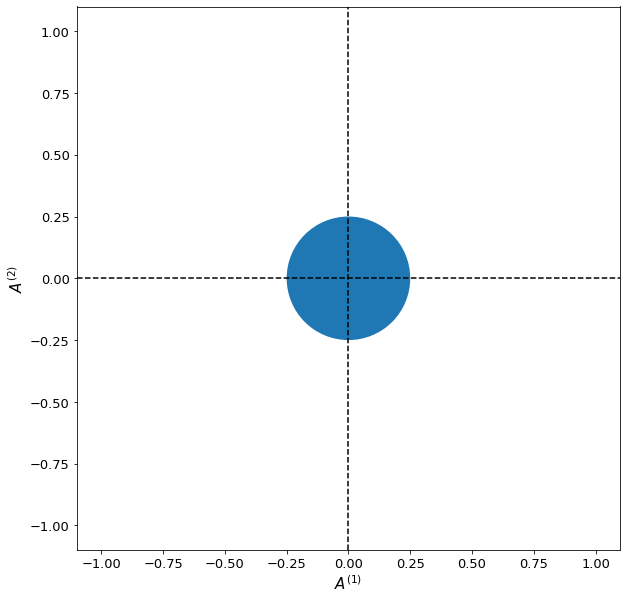
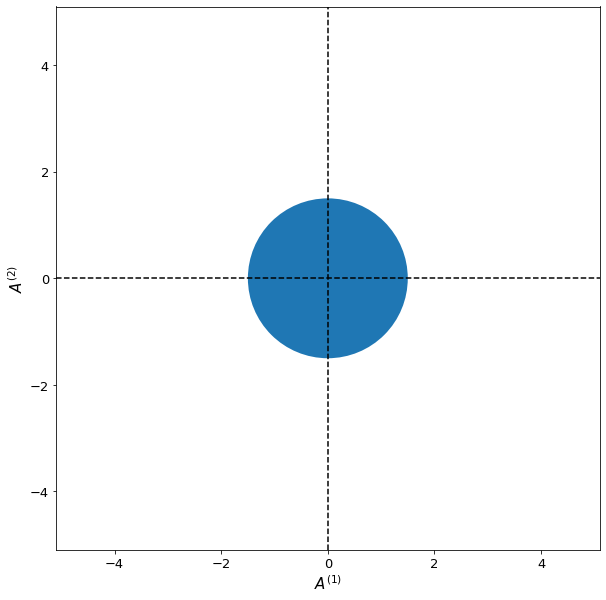
Update documentation

diff --git a/searchindex.js b/searchindex.js
@@ -1,1 +1,1 @@
-Search.setIndex({docnames:["chapter-XX-quantum-information","chapter-XX-quantum-optics-basics","intro"],envversion:{"sphinx.domains.c":2,"sphinx.domains.changeset":1,"sphinx.domains.citation":1,"sphinx.domains.cpp":4,"sphinx.domains.index":1,"sphinx.domains.javascript":2,"sphinx.domains.math":2,"sphinx.domains.python":3,"sphinx.domains.rst":2,"sphinx.domains.std":2,"sphinx.ext.intersphinx":1,"sphinxcontrib.bibtex":9,sphinx:56},filenames:["chapter-XX-quantum-information.ipynb","chapter-XX-quantum-optics-basics.md","intro.md"],objects:{},objnames:{},objtypes:{},terms:{"0":0,"00":0,"000":0,"0001":[],"001":0,"002":[],"005":[],"00_a":0,"01":0,"010":0,"011":0,"01_a":0,"05":[],"054e":0,"08":[],"0_a":0,"0_b":0,"0e":[],"0j":[],"1":1,"10":[0,1],"100":0,"1000":0,"101":0,"1068636":[],"10938188e":0,"10_a":0,"11":0,"110":0,"1109":[],"111":0,"119":0,"11_a":0,"12":[],"13":1,"14":0,"1440x252":[],"15":1,"159":[],"168":[],"18":[],"180":[],"19":0,"1975":[],"1998":[],"1_a":0,"1_b":0,"1e":[],"1j":[],"2":1,"20":0,"200":[],"2000":[0,1],"21":[],"22":0,"25":1,"2944":[],"2i":1,"2n":1,"30":[],"31":0,"32":0,"323":[],"330":[],"34":0,"360":[],"4":1,"40000":[],"45":0,"4500":0,"5":[],"50":0,"500":0,"6":[],"602e":0,"686719":[],"7":0,"891389":1,"9":0,"91699832":0,"99":[],"99792458e8":0,"byte":0,"case":[0,1],"class":0,"default":0,"do":0,"export":0,"final":0,"import":[0,1],"int":[],"long":0,"new":0,"public":0,"return":[],"short":[],"static":[],"true":[],"try":0,"while":1,A:[0,1],As:1,At:1,For:[0,1],IS:0,If:0,In:[0,1],It:[0,1],NOT:0,No:0,On:[],One:0,Such:1,THE:0,THERE:0,TO:0,That:1,The:[0,2],Then:[0,1],These:[0,1],To:0,_a:1,_b:1,_l:1,_m:1,_n:1,a0:[],a0_f:[],a1:1,a2:1,a_curr:[],a_f:[],a_m1:[],a_m1_pp:[],a_out:[],ab:0,about:[0,1],abov:[0,1],absorpt:[],access:0,account:1,achiev:0,acousto:[],act:1,activ:[],active_ml:[],ad:0,adagg:[],adagger_m:1,add:1,add_patch:1,add_subplot:1,add_trac:[],adjust:[],after:0,again:0,against:0,agre:0,ahat:[],ahat_m:1,alic:0,all:0,allow:[0,1],along:0,alreadi:0,also:[0,1],alwai:1,among:1,amound:[],amount:1,amplif:[],amplifi:[],amplitud:[],an:[0,1],analog:0,angel:0,angl:1,angular:1,ani:[0,1],anim:0,annihil:[],anoth:0,anyth:0,append:[],appli:0,applic:[0,1],approach:1,approx:0,approxim:[],ar:[0,1],arb:[],arctan2:[],aris:1,arrai:0,artifici:[],asid:[],aspect:[],assign:[],assum:0,assumpt:[],atemp_f:[],atom:0,attent:1,au:[],auto:[],avail:[],averag:1,awai:[],ax1:[],ax2:[],ax3:[],ax:1,ax_amp:[],ax_gain:[],ax_phas:[],ax_tim:[],axhlin:1,axi:1,axvlin:[0,1],b:[0,1],back:0,balanc:[],band:[],bandpass:[],bandwdith:[],bandwidth:[],base:[],baselin:[],baseline_phas:[],basi:0,basic:2,beamsplitt:0,becaus:0,becom:[],been:0,befor:[],begin:0,being:[],bell:0,below:0,beta2:[],beta3:[],beta_:0,better:0,between:0,big:0,bigg:0,bigotim:0,binomi:0,bit:[],black:1,blit:[],block:0,blue:1,bob:0,book:[1,2],both:[0,1],bottom:[],bra:[0,1],braket:[],brief:[],broad:[],build:[],button:[],c:[0,1],c_0:0,c_1:0,c_:0,c_i:0,ca:1,calcul:1,call:0,cambridg:0,can:[0,1],care:[],carri:1,carrier:[],categori:[],caus:0,caviti:[],cell:[],center:1,central:[],certain:0,certainli:[0,1],challeng:0,chanc:0,chang:0,channel:0,chapter:[1,2],charg:0,check:0,chemic:[],choic:0,chose:0,chosen:[],chuang:0,circ:0,circl:[0,1],circuit:0,circular:[0,1],citi:0,cla:[],classic:0,clearli:0,clearr:[],clockwis:1,close:[],cn:0,co:[0,1],code:0,coeff:[],coeffici:0,colab:0,collect:[],color:[0,1],colorbar:[],column:[],comb:[],come:0,commun:0,compar:0,complet:0,complex:0,complimentari:0,compon:1,comput:[0,1],concept:[0,1],concern:1,condit:[0,1],configur:1,consequ:0,consid:[0,1],consist:0,constant:0,construct:0,contain:[0,1],continu:0,contribut:[],control:0,conveni:[0,1],converg:[],convers:0,convert:[],copi:0,core:0,correct:[],correl:0,correspond:0,cost:[],could:0,counter:1,cours:[0,1,2],cover:[0,2],creat:0,creation:[],critic:1,crucial:0,cryptographi:0,cs:0,current:1,cursor:[],d:0,dagger:[],deal:[0,1],decreas:1,deeper:1,def:[],defin:1,definit:1,degre:0,dela:1,delta:1,demosntr:[],denot:[],depend:[],der:[],deriv:[],describ:[],descript:[],design:[],desir:[],despit:1,destroi:0,detail:0,detect:0,detector:0,determin:1,develop:1,devic:[],dictat:[],did:0,didn:0,diff:[],differ:0,difficulti:0,dimension:1,directli:1,discret:0,discuss:[0,1],dispers:[],displai:0,distinguish:1,distribut:0,doe:0,doesn:0,doi:[],domain:0,don:[],done:0,doubl:0,down:[],drawn:1,drive:0,driven:[],dt:[],due:[],durat:0,dure:0,dz:[],e:[0,1],e_envelop:[],each:[0,1],earli:0,easili:1,eavesdrop:0,ec:1,edit:1,eec:2,effect:[],effici:0,eighti:0,either:[0,1],electr:1,electro:[],electromagnet:1,electron:0,element:[],elmeent:[],els:[],emploi:0,en:[],enabl:0,encod:0,encourag:0,end:0,energi:1,engin:1,enough:0,ensur:0,entangl:[],entropi:0,envelop:[],environ:0,eqnarrai:0,equal:[0,1],equat:0,error:[],essenti:0,eta:0,etc:[0,1],ev:0,evcon:0,even:0,everi:[],evolut:[],evolv:[],examin:[],exampl:[0,1],exce:[],except:0,execut:[],exercis:[],exhibit:[],exist:[],exp:[],expand:[0,1],expect:1,experiment:0,explain:0,exploit:[],explor:0,exponenti:0,express:1,extend:0,extent:[],extern:[],extra:[],f:[],fabri:[],fact:1,factor:0,fail:0,fals:0,fast_sa_ml:[],faster:0,favor:[],feedback:[],femtosecond:[],few:0,feynman:0,fft:[],fftfreq:[],fftshift:[],fiber:0,field:[],fig:[0,1],figur:[0,1],fill:[],filter:[],find:0,fine:[],first:[0,1],fix:[],fixm:0,flip:0,floattext:[],floor:[],fluctiat:[],fluctuat:1,fly:0,focu:1,focus:1,follow:[0,1],fontsiz:[0,1],forc:[],form:[0,1],foruml:[],forward:[],found:[0,1],four:0,fourier:[],frac:[0,1],frang:[],free:0,freespac:0,frequenc:1,from:[0,1],fs:[],full:0,funcanim:[],fundament:0,further:[],furthermor:0,fwhm:[],g0:[],g:[0,1],g_0:[],gamma:[],gate:[],gaussian:[],gaussian_puls:[],gca:1,gener:1,get:[],get_ax:[],give:0,given:[0,1],go:[0,1],goal:[],goe:0,good:0,googl:0,graph_object:[],grid:[],gvd:[],h5py:0,h:0,ha:0,hadamard:0,half:0,hand:1,happen:0,hard:0,harmon:[],hat:[],hau:[],have:[0,1],hbar:[0,1],header:[],help:[],her:0,here:[0,1,2],hidden:0,high:[],higher:[],horizont:1,how:[0,1],howev:[0,1],html:0,http:[],hundr:[],hwp:0,i:[0,1],i_:[],i_sat:[],idea:0,ieee:[],ifft:[],ignor:[],illustr:0,impact:[],imped:0,imperfect:0,implement:0,impli:1,importantli:0,impract:0,improv:0,imshow:[],incid:[],includ:[0,2],inclus:[],incorpor:[],increas:1,index:[],ineffici:[],infin:[],infinit:[0,1],inform:1,infrom:0,initi:[],input:[0,1],insid:[],instal:0,instanc:[0,1],instantan:[],instead:[],int_:[],integr:[],intend:1,interact:0,interest:1,interpol:0,interv:0,intiial:[],intrins:1,introduc:1,introduct:[],inttext:[],intuit:[],involv:0,ipython:0,ipywidget:0,isbn:1,issu:[],iter:[],its:1,itself:1,j:0,javascript:0,john:1,joint:0,jone:0,journal:[],jqe:[],jul:[],just:[0,1],k:[0,1],kartner:[],keep:0,kei:0,keller:[],ket:0,kg:0,know:0,knowledg:0,known:[],l:0,label:[0,1],labels:[0,1],laboratori:0,langl:1,larg:1,laser:[],later:0,latex:[],launcher:0,lbrace:0,ldot:1,lead:[],learn:0,leav:0,left:[],legend:0,len:[0,1],length:[],leq:[],let:0,level:[0,1],leverag:1,life:[],light:0,like:0,likewis:1,limit:1,line:[],line_gain:[],linear:[0,1],linestyl:[0,1],linewidth:0,link:0,linspac:0,list:2,littl:0,ll:0,lo:0,locat:0,lock:[],log:[],log_2:0,look:0,loop:[],loss:[],lossi:0,low:[],m:[0,1],m_:0,magnet:0,major:0,make:[0,1],mani:[0,1],manual:[],mar:[],mark:1,markerlin:[],markerline_phas:[],mass:0,master:[],materi:[0,1],mathbf:1,mathematica:0,mathrm:0,matplotlib:[0,1],matrix:0,max:[],maxim:0,me:0,measur:[0,1],mechan:1,medium:[],memori:0,mental:[],messag:0,micron:[],middl:[],might:[],minimum:[],mirror:[],miss:0,mm:[],mod:[],mode:0,model:[],modern:1,modif:[],modul:[],more:[0,1],most:1,mostli:0,move:0,movi:[],mpatch:1,must:0,n2:[],n:0,n_out:[],n_plot:[],n_save:[],n_sell:[],name:1,nanosecond:[],natur:[],nearli:[],need:0,neighbor:[],net:1,nevertheless:0,newcommand:[],nielsen:0,nlse:[],nois:[0,1],noisi:0,none:1,nonlinear:[],normal:0,notat:0,note:[0,1],notebook:0,now:0,np:[0,1],nt:[],nt_r:[],nucleu:0,number:0,numer:[],numpi:[0,1],nz:[],o:[],obtain:[0,1],occur:0,odd:1,offset:[],often:1,ohm:0,omega:1,omega_g:[],omega_m:[],on_click:[],onc:0,one:0,ones:[],onli:0,open:0,oper:0,optic:[0,2],optim:[],order:[],org:[],orient:0,origin:0,orthogon:0,oscil:1,other:[0,1],our:[0,1],out:[],outcom:0,output:1,over:0,overcom:0,overview:1,own:[],p:0,p_0:0,p_1:0,p_2:0,p_3:0,p_:0,p_fail_1:0,p_fail_3:0,p_i:0,pair:0,parabol:[],parabola:[],paramet:[],part:[],partial:[],particl:0,particular:[0,1],pasadena:0,pass:[],patch:1,path:0,peak:[],per:1,perfectli:0,perform:1,period:[],perot:[],person:0,perturb:0,phase:[0,1],phi:[0,1],phi_c:[],photon:0,physic:[0,1],phz:[],pi:[0,1],pictur:[],place:[],plai:[],planck:0,plate:0,platform:1,plot:[0,1],plotli:[],plt:[0,1],pm:0,pmatrix:0,point:[0,1],polar:[0,1],popul:[0,1],possess:0,possibl:[0,1],possit:0,potenti:0,power:0,pp:[],precis:1,preferenti:[],presenc:0,present:1,press:0,prevent:[],previou:[],primari:0,principl:0,prior:[],probabilti:0,probabl:0,proce:[],procedur:0,process:0,produc:0,product:0,profici:1,profil:[],progress:0,project:0,projector:0,propag:[],properti:0,propos:0,propto:[],protect:0,protocol:0,provid:1,psi:[0,1],psi_1:0,psi_2:0,psi_3:0,psi_4:0,psi_:0,psi_i:0,psi_m:1,publish:[],pure:1,purpos:0,push:[],pyplot:[0,1],quadratur:1,quantiti:1,quantiz:1,quantum:[],quick:1,quit:1,r:[],rad:[],radialaxis_rang:[],radiat:[],radiu:1,rand:[],random:1,rang:0,rangl:1,rate:[],rather:[],ratio:1,rbrace:0,rc:0,re:0,real:[0,1],realist:[],reason:[],recal:0,receiv:1,recit:0,recommend:[],record:[],recov:0,red:[],reduc:[],reduct:1,redund:0,ref:1,refer:0,reflect:[],regener:[],region:1,regist:0,rel:0,relat:[0,1],reliabl:0,remark:[],repeat:[],repetit:[],repres:[0,1],represent:1,requir:[0,1],reson:[],respect:1,respons:[],restor:0,result:[0,1],review:1,richard:0,right:1,rightarrow:0,rotat:0,round:[],row:[],run:0,s0:[],s:[0,1],s_0:[],sai:0,said:[],same:0,sampl:[],sat:[],satyur:[],sausalito:1,scale:[],scatterpolar:[],scheme:0,scienc:1,scipi:0,script:[],second:[],section:0,secur:1,see:[0,1],seed:[],seem:0,self:[],sellmeier:[],sellmeier_equ:[],send:0,sensit:1,seriou:0,set:0,set_aspect:1,set_size_inch:[0,1],set_titl:[],set_xlabel:1,set_xlim:1,set_ylabel:1,set_ylim:1,settl:[],setup:0,sever:1,shannon:0,shape:[],share:0,she:0,shoot:[],shorter:[],should:[0,1],show:[0,1],side:[],sift:0,signal:[0,1],similar:[],simpl:0,simplest:[],simpli:[],simplifi:[],simul:0,sin:[0,1],sinc:0,singl:1,sinusoid:[],sit:0,size:[],slightli:0,slow:[],slowli:[],small:[],so:[0,1],solid:0,solut:[],solv:[],some:0,sourc:0,space:0,span:[],spatial:[],specif:0,spectra:[],speed:0,spin:0,split:[],split_step:[],spuriou:[],sqrt:[0,1],stabil:[],stabilti:0,start:[],state:0,statist:[0,1],steadi:[],stem:[],stemlin:[],stemline_phas:[],step:[],still:0,store:0,str:[],strenght:[],strength:0,string:0,studi:0,subject:[0,2],suffic:0,sum_:0,sum_i:0,sum_x:0,sumat:[],summat:1,support:[],suppos:0,sure:0,surfac:1,synchron:[],system:[0,1],system_set:[],system_set_fast_sa:[],t:0,t_r:[],tab:1,take:[0,1],tau:[],taught:1,techniqu:0,teleport:[],tell:0,tempor:[],temporarili:[],ten:[],tera:0,term:0,tese:[],text:[0,2],textbook:1,th:0,than:[0,1],thei:[0,1],theori:0,therefor:0,thermal:[],theta:[0,1],thi:[0,1,2],thing:1,think:[],those:[0,1],though:0,thousand:[],three:0,through:[0,1],throughout:1,thu:0,tick_param:[0,1],time:[0,1],times2:0,timescal:[],to_jshtml:[],tod:[],togeth:[],tool:0,top:0,topic:[0,2],toself:[],townsend:1,trace:[],track:[],tracker:[],train:[],transfer:0,transform:0,transmit:1,trapz:[],treatment:1,trip:[],tukei:[],turn:[],tweak:0,two:1,tyical:[],typic:[],u:0,ubiquit:1,ultim:[],ultrafast:[],uncertainti:[0,1],uncorrel:0,under:[],underli:[],understand:1,uniformli:[],uniqu:0,unit:0,univ:0,univariatesplin:0,univers:[0,1],unknown:0,unlock:[],unphys:[],unrestrict:1,unsatur:[],unstabl:[],until:[],up:[],updat:0,update_polar:[],updatefig:[],us:[0,1],use_line_collect:[],uu:0,v:0,vacuum:[],valu:[0,1],variabl:1,varianc:1,varieti:1,variou:1,variousu:[],vector:1,veri:1,vertic:1,violat:0,visibl:0,visual:1,vol:[],vote:0,vs:[],vv:0,w:[],w_:[],w_puls:[],w_sat:[],wa:0,wai:[0,1],want:0,want_export:0,watch:[],wave:[0,1],wavelength:[],wc:[],we:[0,1],well:[0,1],were:0,what:[0,1],when:0,where:[0,1],whether:0,which:0,who:1,whose:1,why:[],width:1,wiki:[],wikipedia:[],wildli:1,window:[],within:1,without:[],work:0,world:1,would:[0,1],wouldn:[],wrap:[],written:[0,1],x:[0,1],x_i:0,xlabel:0,xlim:[],xx:2,y:[0,1],y_valid:[],ylabel:0,ylim:[],york:0,you:[0,1],your:0,yy:0,z:0,zero:1,zx:0},titles:["Chapter XX \u2013 Quantum Information","The Basics of Quantum Optics","6.157 \u2013 Laboratory for Quantum Information Science and Engineering"],titleterms:{"0":1,"1":0,"157":2,"2":0,"3":0,"4":0,"5":0,"6":2,"final":[],"function":0,The:1,Their:1,With:0,absorb:[],activ:[],adagg:1,adjust:[],ahat:1,alpha:1,an:[],anim:[],annihil:1,base:0,basic:1,bit:0,cell:[],chapter:0,cnot:0,coher:1,common:1,content:2,correct:0,creation:1,deviat:1,domain:[],dynam:[],engin:2,entangl:0,error:0,exampl:[],fast:[],field:1,format:[],gain:[],gate:0,hat:1,header:[],inform:[0,2],intens:[],introduct:[],ket:1,lab:[],laboratori:2,latex:[],lock:[],look:[],mean:1,mode:1,n:1,number:1,observ:1,oper:1,optic:1,output:[],packag:0,passiv:[],phase:[],photon:1,point:[],properti:1,puls:[],qkd:0,quantum:[0,1,2],qubit:0,refer:1,run:[],satur:[],scienc:2,select:[],set:[],singl:0,spectral:[],spectrum:[],stabl:[],standard:1,state:1,system:[],tabl:2,teleport:0,time:[],two:0,type:1,vacuum:1,variabl:0,width:[],without:0,xx:0}})
+Search.setIndex({docnames:["chapter-XX-quantum-information","chapter-XX-quantum-optics-basics","intro"],envversion:{"sphinx.domains.c":2,"sphinx.domains.changeset":1,"sphinx.domains.citation":1,"sphinx.domains.cpp":4,"sphinx.domains.index":1,"sphinx.domains.javascript":2,"sphinx.domains.math":2,"sphinx.domains.python":3,"sphinx.domains.rst":2,"sphinx.domains.std":2,"sphinx.ext.intersphinx":1,"sphinxcontrib.bibtex":9,sphinx:56},filenames:["chapter-XX-quantum-information.ipynb","chapter-XX-quantum-optics-basics.md","intro.md"],objects:{},objnames:{},objtypes:{},terms:{"0":0,"00":0,"000":0,"0001":[],"001":0,"002":[],"005":[],"00_a":0,"01":0,"010":0,"011":0,"01_a":0,"05":[],"054e":0,"08":[],"0_a":0,"0_b":0,"0e":[],"0j":[],"1":1,"10":[0,1],"100":0,"1000":0,"101":0,"1068636":[],"10938188e":0,"10_a":0,"11":0,"110":0,"1109":[],"111":0,"119":0,"11_a":0,"12":[],"13":1,"14":0,"1440x252":[],"15":1,"159":[],"168":[],"18":[],"180":[],"19":0,"1975":[],"1998":[],"1_a":0,"1_b":0,"1e":[],"1j":[],"2":1,"20":0,"200":[],"2000":[0,1],"21":[],"22":0,"25":[],"2944":[],"2i":1,"2n":1,"30":[],"31":0,"32":0,"323":[],"330":[],"34":0,"360":[],"4":1,"40000":[],"45":0,"4500":0,"5":1,"50":0,"500":0,"6":[],"602e":0,"686719":[],"7":0,"891389":1,"9":0,"91699832":0,"99":[],"99792458e8":0,"byte":0,"case":[0,1],"class":0,"default":0,"do":0,"export":0,"final":0,"import":[0,1],"int":[],"long":0,"new":0,"public":0,"return":[],"short":[],"static":[],"true":[],"try":0,"while":1,A:[0,1],As:1,At:1,For:[0,1],IS:0,If:0,In:[0,1],It:[0,1],NOT:0,No:0,On:[],One:0,Such:1,THE:0,THERE:0,TO:0,That:1,The:[0,2],Then:[0,1],These:[0,1],To:0,_a:1,_b:1,_l:1,_m:1,_n:1,a0:[],a0_f:[],a1:1,a2:1,a_curr:[],a_f:[],a_m1:[],a_m1_pp:[],a_out:[],ab:0,about:[0,1],abov:[0,1],absorpt:[],access:0,account:1,achiev:0,acousto:[],act:1,activ:[],active_ml:[],ad:0,adagg:[],adagger_m:1,add:1,add_patch:1,add_subplot:1,add_trac:[],adjust:[],after:0,again:0,against:0,agre:0,ahat:[],ahat_m:1,alic:0,all:0,allow:[0,1],along:0,alreadi:0,also:[0,1],alwai:1,among:1,amound:[],amount:1,amplif:[],amplifi:[],amplitud:[],an:[0,1],analog:0,angel:0,angl:1,angular:1,ani:[0,1],anim:0,annihil:[],anoth:0,anyth:0,append:[],appli:0,applic:[0,1],approach:1,approx:0,approxim:[],ar:[0,1],arb:[],arctan2:[],aris:1,arrai:0,artifici:[],asid:[],aspect:[],assign:[],assum:0,assumpt:[],atemp_f:[],atom:0,attent:1,au:[],auto:[],avail:[],averag:1,awai:[],ax1:[],ax2:[],ax3:[],ax:1,ax_amp:[],ax_gain:[],ax_phas:[],ax_tim:[],axhlin:1,axi:1,axvlin:[0,1],b:[0,1],back:0,balanc:[],band:[],bandpass:[],bandwdith:[],bandwidth:[],base:[],baselin:[],baseline_phas:[],basi:0,basic:2,beamsplitt:0,becaus:0,becom:[],been:0,befor:[],begin:0,being:[],bell:0,below:0,beta2:[],beta3:[],beta_:0,better:0,between:0,big:0,bigg:0,bigotim:0,binomi:0,bit:[],black:1,blit:[],block:0,blue:1,bob:0,book:[1,2],both:[0,1],bottom:[],bra:[0,1],braket:[],brief:[],broad:[],build:[],button:[],c:[0,1],c_0:0,c_1:0,c_:0,c_i:0,ca:1,calcul:1,call:0,cambridg:0,can:[0,1],care:[],carri:1,carrier:[],categori:[],caus:0,caviti:[],cell:[],center:1,central:[],certain:0,certainli:[0,1],challeng:0,chanc:0,chang:0,channel:0,chapter:[1,2],charg:0,check:0,chemic:[],choic:0,chose:0,chosen:[],chuang:0,circ:0,circl:[0,1],circuit:0,circular:[0,1],citi:0,cla:[],classic:0,clearli:0,clearr:[],clockwis:1,close:[],cn:0,co:[0,1],code:0,coeff:[],coeffici:0,colab:0,collect:[],color:[0,1],colorbar:[],column:[],comb:[],come:0,commun:0,compar:0,complet:0,complex:0,complimentari:0,compon:1,comput:[0,1],concept:[0,1],concern:1,condit:[0,1],configur:1,consequ:0,consid:[0,1],consist:0,constant:0,construct:0,contain:[0,1],continu:0,contribut:[],control:0,conveni:[0,1],converg:[],convers:0,convert:[],copi:0,core:0,correct:[],correl:0,correspond:0,cost:[],could:0,counter:1,cours:[0,1,2],cover:[0,2],creat:0,creation:[],critic:1,crucial:0,cryptographi:0,cs:0,current:1,cursor:[],d:0,dagger:[],deal:[0,1],decreas:1,deeper:1,def:[],defin:1,definit:1,degre:0,dela:1,delta:1,demosntr:[],denot:[],depend:[],der:[],deriv:[],describ:[],descript:[],design:[],desir:[],despit:1,destroi:0,detail:0,detect:0,detector:0,determin:1,develop:1,devic:[],dictat:[],did:0,didn:0,diff:[],differ:0,difficulti:0,dimension:1,directli:1,discret:0,discuss:[0,1],dispers:[],displai:0,distinguish:1,distribut:0,doe:0,doesn:0,doi:[],domain:0,don:[],done:0,doubl:0,down:[],drawn:1,drive:0,driven:[],dt:[],due:[],durat:0,dure:0,dz:[],e:[0,1],e_envelop:[],each:[0,1],earli:0,easili:1,eavesdrop:0,ec:1,edit:1,eec:2,effect:[],effici:0,eighti:0,either:[0,1],electr:1,electro:[],electromagnet:1,electron:0,element:[],ellips:1,elmeent:[],els:[],emploi:0,en:[],enabl:0,encod:0,encourag:0,end:0,energi:1,engin:1,enough:0,ensur:0,entangl:[],entropi:0,envelop:[],environ:0,eqnarrai:0,equal:[0,1],equat:0,error:[],essenti:0,eta:0,etc:[0,1],ev:0,evcon:0,even:0,everi:[],evolut:[],evolv:[],examin:[],exampl:[0,1],exce:[],except:0,execut:[],exercis:[],exhibit:[],exist:[],exp:[],expand:[0,1],expect:1,experiment:0,explain:0,exploit:[],explor:0,exponenti:0,express:1,extend:0,extent:[],extern:[],extra:[],f:[],fabri:[],fact:1,factor:0,fail:0,fals:0,fast_sa_ml:[],faster:0,favor:[],feedback:[],femtosecond:[],few:0,feynman:0,fft:[],fftfreq:[],fftshift:[],fiber:0,field:[],fig:[0,1],figur:[0,1],fill:[],filter:[],find:0,fine:[],first:[0,1],fix:[],fixm:0,flip:0,floattext:[],floor:[],fluctiat:[],fluctuat:1,fly:0,focu:1,focus:1,follow:[0,1],fontsiz:[0,1],forc:[],form:[0,1],foruml:[],forward:[],found:[0,1],four:0,fourier:[],frac:[0,1],frang:[],free:0,freespac:0,frequenc:1,from:[0,1],fs:[],full:0,funcanim:[],fundament:0,further:[],furthermor:0,fwhm:[],g0:[],g:[0,1],g_0:[],gamma:[],gate:[],gaussian:[],gaussian_puls:[],gca:1,gener:1,get:[],get_ax:[],give:0,given:[0,1],go:[0,1],goal:[],goe:0,good:0,googl:0,graph_object:[],grid:[],gvd:[],h5py:0,h:0,ha:0,hadamard:0,half:0,hand:1,happen:0,hard:0,harmon:[],hat:[],hau:[],have:[0,1],hbar:[0,1],header:[],height:1,help:[],her:0,here:[0,1,2],hidden:0,high:[],higher:[],horizont:1,how:[0,1],howev:[0,1],html:0,http:[],hundr:[],hwp:0,i:[0,1],i_:[],i_sat:[],idea:0,ieee:[],ifft:[],ignor:[],illustr:0,impact:[],imped:0,imperfect:0,implement:0,impli:1,importantli:0,impract:0,improv:0,imshow:[],incid:[],includ:[0,2],inclus:[],incorpor:[],increas:1,index:[],ineffici:[],infin:[],infinit:[0,1],inform:1,infrom:0,initi:[],input:[0,1],insid:[],instal:0,instanc:[0,1],instantan:[],instead:[],int_:[],integr:[],intend:1,interact:0,interest:1,interpol:0,interv:0,intiial:[],intrins:1,introduc:1,introduct:[],inttext:[],intuit:[],involv:0,ipython:0,ipywidget:0,isbn:1,issu:[],iter:[],its:1,itself:1,j:0,javascript:0,john:1,joint:0,jone:0,journal:[],jqe:[],jul:[],just:[0,1],k:[0,1],kartner:[],keep:0,kei:0,keller:[],ket:0,kg:0,know:0,knowledg:0,known:[],l:0,label:[0,1],labels:[0,1],laboratori:0,langl:1,larg:1,laser:[],later:0,latex:[],launcher:0,lbrace:0,ldot:1,lead:[],learn:0,leav:0,left:[],legend:0,len:[0,1],length:[],leq:[],let:0,level:[0,1],leverag:1,life:[],light:0,like:0,likewis:1,limit:1,line:[],line_gain:[],linear:[0,1],linestyl:[0,1],linewidth:0,link:0,linspac:0,list:2,littl:0,ll:0,lo:0,locat:0,lock:[],log:[],log_2:0,look:0,loop:[],loss:[],lossi:0,low:[],m:[0,1],m_:0,magnet:0,major:0,make:[0,1],mani:[0,1],manual:[],mar:[],mark:1,markerlin:[],markerline_phas:[],mass:0,master:[],materi:[0,1],mathbf:1,mathematica:0,mathrm:0,matplotlib:[0,1],matrix:0,max:[],maxim:0,me:0,measur:[0,1],mechan:1,medium:[],memori:0,mental:[],messag:0,micron:[],middl:[],might:[],minimum:[],mirror:[],miss:0,mm:[],mod:[],mode:0,model:[],modern:1,modif:[],modul:[],more:[0,1],most:1,mostli:0,move:0,movi:[],mpatch:1,must:0,n2:[],n:0,n_out:[],n_plot:[],n_save:[],n_sell:[],name:1,nanosecond:[],natur:[],nearli:[],need:0,neighbor:[],net:1,nevertheless:0,newcommand:[],nielsen:0,nlse:[],nois:[0,1],noisi:0,none:1,nonlinear:[],normal:0,notat:0,note:[0,1],notebook:0,now:0,np:[0,1],nt:[],nt_r:[],nucleu:0,number:0,numer:[],numpi:[0,1],nz:[],o:[],obtain:[0,1],occur:0,odd:1,offset:[],often:1,ohm:0,omega:1,omega_g:[],omega_m:[],on_click:[],onc:0,one:0,ones:[],onli:0,onto:1,open:0,oper:0,optic:[0,2],optim:[],order:[],org:[],orient:0,origin:0,orthogon:0,oscil:1,other:[0,1],our:[0,1],out:[],outcom:0,output:1,over:0,overcom:0,overview:1,own:[],p:0,p_0:0,p_1:0,p_2:0,p_3:0,p_:0,p_fail_1:0,p_fail_3:0,p_i:0,pair:0,parabol:[],parabola:[],paramet:[],part:[],partial:[],particl:0,particular:[0,1],pasadena:0,pass:[],patch:1,path:0,peak:[],per:1,perfectli:0,perform:1,period:[],perot:[],person:0,perturb:0,phase:[0,1],phi:[0,1],phi_c:[],photon:0,physic:[0,1],phz:[],pi:[0,1],pictur:[],place:[],plai:[],planck:0,plate:0,platform:1,plot:[0,1],plotli:[],plt:[0,1],pm:0,pmatrix:0,point:[0,1],polar:[0,1],popul:[0,1],possess:0,possibl:[0,1],possit:0,potenti:0,power:0,pp:[],precis:1,preferenti:[],presenc:0,present:1,press:0,prevent:[],previou:[],primari:0,principl:0,prior:[],probabilti:0,probabl:0,proce:[],procedur:0,process:0,produc:0,product:0,profici:1,profil:[],progress:0,project:[0,1],projector:0,propag:[],properti:0,propos:0,propto:[],protect:0,protocol:0,provid:1,psi:[0,1],psi_1:0,psi_2:0,psi_3:0,psi_4:0,psi_:0,psi_i:0,psi_m:1,publish:[],pure:1,purpos:0,push:[],pyplot:[0,1],quadratur:1,quantiti:1,quantiz:1,quantum:[],quick:1,quit:1,r:[],rad:[],radialaxis_rang:[],radiat:[],radiu:[],rand:[],random:1,rang:0,rangl:1,rate:[],rather:[],ratio:1,rbrace:0,rc:0,re:0,real:[0,1],realist:[],reason:[],recal:0,receiv:1,recit:0,recommend:[],record:[],recov:0,red:[],reduc:[],reduct:1,redund:0,ref:1,refer:0,reflect:[],regener:[],region:1,regist:0,rel:0,relat:[0,1],reliabl:0,remark:[],repeat:[],repetit:[],repres:[0,1],represent:1,requir:[0,1],reson:[],respect:1,respons:[],restor:0,result:[0,1],review:1,richard:0,right:1,rightarrow:0,rotat:0,round:[],row:[],run:0,s0:[],s:[0,1],s_0:[],sai:0,said:[],same:0,sampl:[],sat:[],satyur:[],sausalito:1,scale:[],scatterpolar:[],scheme:0,scienc:1,scipi:0,script:[],second:[],section:0,secur:1,see:[0,1],seed:[],seem:0,self:[],sellmeier:[],sellmeier_equ:[],send:0,sensit:1,seriou:0,set:0,set_aspect:1,set_size_inch:[0,1],set_titl:[],set_xlabel:1,set_xlim:1,set_ylabel:1,set_ylim:1,settl:[],setup:0,sever:1,shannon:0,shape:[],share:0,she:0,shoot:[],shorter:[],should:[0,1],show:[0,1],side:[],sift:0,signal:[0,1],similar:[],simpl:0,simplest:[],simpli:[],simplifi:[],simul:0,sin:[0,1],sinc:0,singl:1,sinusoid:[],sit:0,size:[],slightli:0,slow:[],slowli:[],small:[],so:[0,1],solid:0,solut:[],solv:[],some:0,sourc:0,space:0,span:[],spatial:[],specif:0,spectra:[],speed:0,spin:0,split:[],split_step:[],spuriou:[],sqrt:[0,1],stabil:[],stabilti:0,start:[],state:0,statist:[0,1],steadi:[],stem:[],stemlin:[],stemline_phas:[],step:[],still:0,store:0,str:[],strenght:[],strength:0,string:0,studi:0,subject:[0,2],suffic:0,sum_:0,sum_i:0,sum_x:0,sumat:[],summat:1,support:[],suppos:0,sure:0,surfac:1,synchron:[],system:[0,1],system_set:[],system_set_fast_sa:[],t:0,t_r:[],tab:1,take:[0,1],tau:[],taught:1,techniqu:0,teleport:[],tell:0,tempor:[],temporarili:[],ten:[],tera:0,term:0,tese:[],text:[0,2],textbook:1,th:0,than:[0,1],thei:[0,1],theori:0,therefor:0,thermal:[],theta:[0,1],thi:[0,1,2],thing:1,think:[],those:[0,1],though:0,thousand:[],three:0,through:[0,1],throughout:1,thu:0,tick_param:[0,1],time:[0,1],times2:0,timescal:[],to_jshtml:[],tod:[],togeth:[],tool:0,top:0,topic:[0,2],toself:[],townsend:1,trace:[],track:[],tracker:[],train:[],transfer:0,transform:0,transmit:1,trapz:[],treatment:1,trip:[],tukei:[],turn:[],tweak:0,two:1,tyical:[],typic:[],u:0,ubiquit:1,ultim:[],ultrafast:[],uncertainti:[0,1],uncorrel:0,under:[],underli:[],understand:1,uniformli:[],uniqu:0,unit:0,univ:0,univariatesplin:0,univers:[0,1],unknown:0,unlock:[],unphys:[],unrestrict:1,unsatur:[],unstabl:[],until:[],up:[],updat:0,update_polar:[],updatefig:[],us:[0,1],use_line_collect:[],uu:0,v:0,vacuum:[],valu:[0,1],variabl:1,varianc:1,varieti:1,variou:1,variousu:[],vector:1,veri:1,vertic:1,violat:0,visibl:0,visual:1,vol:[],vote:0,vs:[],vv:0,w:[],w_:[],w_puls:[],w_sat:[],wa:0,wai:[0,1],want:0,want_export:0,watch:[],wave:[0,1],wavelength:[],wc:[],we:[0,1],well:[0,1],were:0,what:[0,1],when:0,where:[0,1],whether:0,which:0,who:1,whose:1,why:[],width:1,wiki:[],wikipedia:[],wildli:1,window:[],within:1,without:[],work:0,world:1,would:[0,1],wouldn:[],wrap:[],written:[0,1],x:[0,1],x_i:0,xlabel:0,xlim:[],xx:2,y:[0,1],y_valid:[],ylabel:0,ylim:[],york:0,you:[0,1],your:0,yy:0,z:0,zero:1,zx:0},titles:["Chapter XX \u2013 Quantum Information","The Basics of Quantum Optics","6.157 \u2013 Laboratory for Quantum Information Science and Engineering"],titleterms:{"0":1,"1":0,"157":2,"2":0,"3":0,"4":0,"5":0,"6":2,"final":[],"function":0,The:1,Their:1,With:0,absorb:[],activ:[],adagg:1,adjust:[],ahat:1,alpha:1,an:[],anim:[],annihil:1,base:0,basic:1,bit:0,cell:[],chapter:0,cnot:0,coher:1,common:1,content:2,correct:0,creation:1,deviat:1,domain:[],dynam:[],engin:2,entangl:0,error:0,exampl:[],fast:[],field:1,format:[],gain:[],gate:0,hat:1,header:[],inform:[0,2],intens:[],introduct:[],ket:1,lab:[],laboratori:2,latex:[],lock:[],look:[],mean:1,mode:1,n:1,number:1,observ:1,oper:1,optic:1,output:[],packag:0,passiv:[],phase:[],photon:1,point:[],properti:1,puls:[],qkd:0,quantum:[0,1,2],qubit:0,refer:1,run:[],satur:[],scienc:2,select:[],set:[],singl:0,spectral:[],spectrum:[],stabl:[],standard:1,state:1,system:[],tabl:2,teleport:0,time:[],two:0,type:1,vacuum:1,variabl:0,width:[],without:0,xx:0}})

diff --git a/chapter-XX-quantum-optics-basics.html b/chapter-XX-quantum-optics-basics.html
@@ -518,10 +518,10 @@ const thebe_selector_output = ".output, .cell_output"
 
 
 <span class="c1"># add a circle</span>
-<span class="n">circle</span> <span class="o">=</span> <span class="n">mpatches</span><span class="o">.</span><span class="n">Circle</span><span class="p">((</span><span class="n">A1</span><span class="p">,</span> <span class="n">A2</span><span class="p">),</span> <span class="n">radius</span><span class="o">=</span><span class="mf">0.25</span><span class="p">,</span> <span class="n">ec</span><span class="o">=</span><span class="s2">&quot;none&quot;</span><span class="p">,</span> <span class="n">color</span><span class="o">=</span><span class="s1">&#39;tab:blue&#39;</span><span class="p">)</span>
-<span class="n">ax</span><span class="o">.</span><span class="n">add_patch</span><span class="p">(</span><span class="n">circle</span><span class="p">)</span>
-<span class="n">ax</span><span class="o">.</span><span class="n">set_xlim</span><span class="p">(</span><span class="o">-</span><span class="mf">1.1</span><span class="p">,</span> <span class="mf">1.1</span><span class="p">)</span>
-<span class="n">ax</span><span class="o">.</span><span class="n">set_ylim</span><span class="p">(</span><span class="o">-</span><span class="mf">1.1</span><span class="p">,</span> <span class="mf">1.1</span><span class="p">)</span>
+<span class="n">patch</span> <span class="o">=</span> <span class="n">mpatches</span><span class="o">.</span><span class="n">Ellipse</span><span class="p">((</span><span class="n">A1</span><span class="p">,</span> <span class="n">A2</span><span class="p">),</span> <span class="n">width</span><span class="o">=</span><span class="n">delA</span><span class="o">*</span><span class="mi">2</span><span class="p">,</span> <span class="n">height</span><span class="o">=</span><span class="n">delA</span><span class="o">*</span><span class="mi">2</span><span class="p">,</span> <span class="n">ec</span><span class="o">=</span><span class="s2">&quot;none&quot;</span><span class="p">,</span> <span class="n">color</span><span class="o">=</span><span class="s1">&#39;tab:blue&#39;</span><span class="p">)</span>
+<span class="n">ax</span><span class="o">.</span><span class="n">add_patch</span><span class="p">(</span><span class="n">patch</span><span class="p">)</span>
+<span class="n">ax</span><span class="o">.</span><span class="n">set_xlim</span><span class="p">(</span><span class="o">-</span><span class="mf">5.1</span><span class="p">,</span> <span class="mf">5.1</span><span class="p">)</span>
+<span class="n">ax</span><span class="o">.</span><span class="n">set_ylim</span><span class="p">(</span><span class="o">-</span><span class="mf">5.1</span><span class="p">,</span> <span class="mf">5.1</span><span class="p">)</span>
 
 <span class="n">ax</span><span class="o">.</span><span class="n">set_xlabel</span><span class="p">(</span><span class="s1">&#39;$A^{(1)}$&#39;</span><span class="p">,</span> <span class="n">fontsize</span><span class="o">=</span><span class="mi">15</span><span class="p">)</span>
 <span class="n">ax</span><span class="o">.</span><span class="n">set_ylabel</span><span class="p">(</span><span class="s1">&#39;$A^{(2)}$&#39;</span><span class="p">,</span> <span class="n">fontsize</span><span class="o">=</span><span class="mi">15</span><span class="p">)</span>
@@ -555,15 +555,15 @@ const thebe_selector_output = ".output, .cell_output"
 
 <span class="n">A</span> <span class="o">=</span> <span class="mi">4</span>
 <span class="n">phi</span> <span class="o">=</span> <span class="n">np</span><span class="o">.</span><span class="n">pi</span><span class="o">/</span><span class="mi">4</span>
-
-<span class="n">A1</span> <span class="o">=</span> <span class="n">A</span><span class="o">*</span><span class="n">np</span><span class="o">.</span><span class="n">cos</span><span class="p">(</span><span class="n">phi</span><span class="p">)</span>
-<span class="n">A2</span> <span class="o">=</span> <span class="n">A</span><span class="o">*</span><span class="n">np</span><span class="o">.</span><span class="n">sin</span><span class="p">(</span><span class="n">phi</span><span class="p">)</span>
 <span class="n">delA</span> <span class="o">=</span> <span class="mi">1</span><span class="o">/</span><span class="mi">2</span>
 
+<span class="c1">#Determine projection onto A1 and A2 for center</span>
+<span class="n">A1</span> <span class="o">=</span> <span class="n">A</span><span class="o">*</span><span class="n">np</span><span class="o">.</span><span class="n">cos</span><span class="p">(</span><span class="n">phi</span><span class="p">)</span>
+<span class="n">A2</span> <span class="o">=</span> <span class="n">A</span><span class="o">*</span><span class="n">np</span><span class="o">.</span><span class="n">sin</span><span class="p">(</span><span class="n">phi</span><span class="p">)</span>
 
 <span class="c1"># add a circle</span>
-<span class="n">circle</span> <span class="o">=</span> <span class="n">mpatches</span><span class="o">.</span><span class="n">Circle</span><span class="p">((</span><span class="n">A1</span><span class="p">,</span> <span class="n">A2</span><span class="p">),</span> <span class="n">radius</span><span class="o">=</span><span class="mf">0.25</span><span class="p">,</span> <span class="n">ec</span><span class="o">=</span><span class="s2">&quot;none&quot;</span><span class="p">,</span> <span class="n">color</span><span class="o">=</span><span class="s1">&#39;tab:blue&#39;</span><span class="p">)</span>
-<span class="n">ax</span><span class="o">.</span><span class="n">add_patch</span><span class="p">(</span><span class="n">circle</span><span class="p">)</span>
+<span class="n">patch</span> <span class="o">=</span> <span class="n">mpatches</span><span class="o">.</span><span class="n">Ellipse</span><span class="p">((</span><span class="n">A1</span><span class="p">,</span> <span class="n">A2</span><span class="p">),</span> <span class="n">width</span><span class="o">=</span><span class="n">delA</span><span class="o">*</span><span class="mi">2</span><span class="p">,</span> <span class="n">height</span><span class="o">=</span><span class="n">delA</span><span class="o">*</span><span class="mi">2</span><span class="p">,</span> <span class="n">ec</span><span class="o">=</span><span class="s2">&quot;none&quot;</span><span class="p">,</span> <span class="n">color</span><span class="o">=</span><span class="s1">&#39;tab:blue&#39;</span><span class="p">)</span>
+<span class="n">ax</span><span class="o">.</span><span class="n">add_patch</span><span class="p">(</span><span class="n">patch</span><span class="p">)</span>
 <span class="n">ax</span><span class="o">.</span><span class="n">set_xlim</span><span class="p">(</span><span class="o">-</span><span class="mf">4.1</span><span class="p">,</span> <span class="mf">4.1</span><span class="p">)</span>
 <span class="n">ax</span><span class="o">.</span><span class="n">set_ylim</span><span class="p">(</span><span class="o">-</span><span class="mf">4.1</span><span class="p">,</span> <span class="mf">4.1</span><span class="p">)</span>
 

diff --git a/_sources/chapter-XX-quantum-optics-basics.md b/_sources/chapter-XX-quantum-optics-basics.md
@@ -216,10 +216,10 @@ A2 = A*np.sin(phi)
 
 
 # add a circle
-circle = mpatches.Circle((A1, A2), radius=0.25, ec="none", color='tab:blue')
-ax.add_patch(circle)
-ax.set_xlim(-1.1, 1.1)
-ax.set_ylim(-1.1, 1.1)
+patch = mpatches.Ellipse((A1, A2), width=delA*2, height=delA*2, ec="none", color='tab:blue')
+ax.add_patch(patch)
+ax.set_xlim(-5.1, 5.1)
+ax.set_ylim(-5.1, 5.1)
 
 ax.set_xlabel('$A^{(1)}$', fontsize=15)
 ax.set_ylabel('$A^{(2)}$', fontsize=15)
@@ -250,15 +250,15 @@ ax = fig.add_subplot()
 
 A = 4
 phi = np.pi/4
-
-A1 = A*np.cos(phi)
-A2 = A*np.sin(phi)
 delA = 1/2
 
+#Determine projection onto A1 and A2 for center
+A1 = A*np.cos(phi)
+A2 = A*np.sin(phi)
 
 # add a circle
-circle = mpatches.Circle((A1, A2), radius=0.25, ec="none", color='tab:blue')
-ax.add_patch(circle)
+patch = mpatches.Ellipse((A1, A2), width=delA*2, height=delA*2, ec="none", color='tab:blue')
+ax.add_patch(patch)
 ax.set_xlim(-4.1, 4.1)
 ax.set_ylim(-4.1, 4.1)
 
